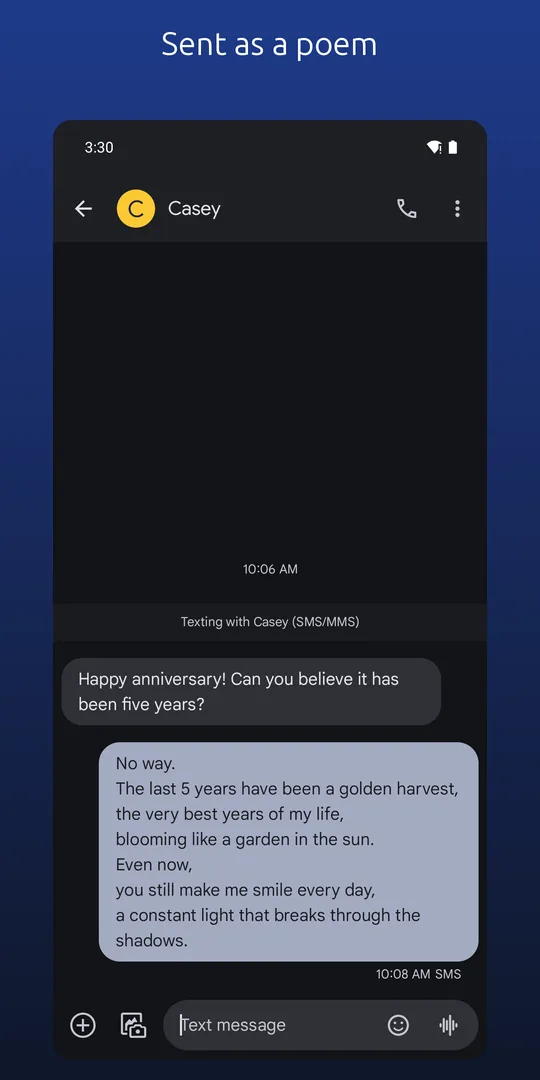
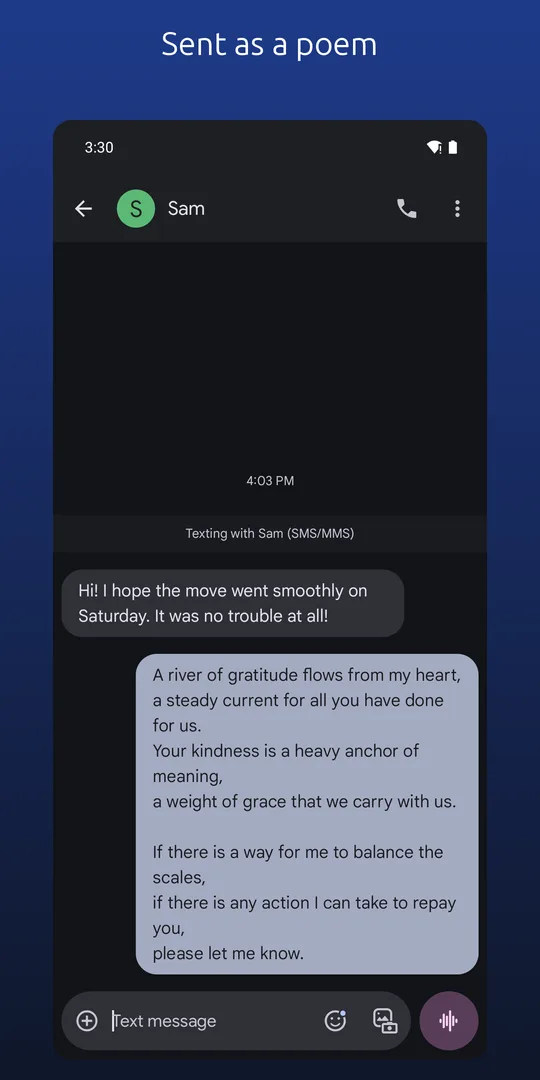
New Poetic screenshots

Changed region(s): [[0.1185, 0.4889, 0.8889, 0.9778], [0.2074, 0.1528, 0.4148, 0.2139], [0.4741, 0.4278, 0.5333, 0.4583]]

diff --git a/index.html b/index.html
@@ -90,8 +90,8 @@ and see the rewrite before it goes in.</p>
   <li><a href="screens/full/03-shakespeare.webp?v=8caebf50"><img src="screens/03-shakespeare.webp?v=f0bc8008" alt="A messy text promising a report, rewritten as Shakespeare" width="540" height="1080" loading="lazy"></a></li>
   <li><a href="screens/full/04-pirate.webp?v=ffc621f4"><img src="screens/04-pirate.webp?v=6dc24448" alt="A messy text about a night out, rewritten as Pirate" width="540" height="1080" loading="lazy"></a></li>
   <li><a href="screens/full/05-piratesent.webp?v=d2ce5eda"><img src="screens/05-piratesent.webp?v=0e372ef0" alt="The pirate rewrite after it was sent" width="540" height="1080" loading="lazy"></a></li>
-  <li><a href="screens/full/06-poetic.webp?v=7e3b7d85"><img src="screens/06-poetic.webp?v=3a676583" alt="A text about five years together, rewritten as a short poem with the same meaning" width="540" height="1080" loading="lazy"></a></li>
-  <li><a href="screens/full/07-poeticsent.webp?v=cea0e9d8"><img src="screens/07-poeticsent.webp?v=00266591" alt="The poem after it was sent" width="540" height="1080" loading="lazy"></a></li>
+  <li><a href="screens/full/06-poetic.webp?v=6d8f3a55"><img src="screens/06-poetic.webp?v=52b0c366" alt="A thank-you text rewritten as a short poem with the same meaning" width="540" height="1080" loading="lazy"></a></li>
+  <li><a href="screens/full/07-poeticsent.webp?v=3cdf4287"><img src="screens/07-poeticsent.webp?v=045a0a62" alt="The poem after it was sent" width="540" height="1080" loading="lazy"></a></li>
   <li><a href="screens/full/08-prolist.webp?v=3ee5c318"><img src="screens/08-prolist.webp?v=82e37718" alt="The pull-down of Pro styles, grouped, with a pinned style marked" width="540" height="1080" loading="lazy"></a></li>
   <li><a href="screens/full/09-choices.webp?v=7e176a75"><img src="screens/09-choices.webp?v=c24684f8" alt="Changing the style in the Reword panel: free styles, pinned Pro styles and the pull-down" width="540" height="1080" loading="lazy"></a></li>
   <li><a href="screens/full/10-lpbefore.webp?v=0f1928ce"><img src="screens/10-lpbefore.webp?v=6d1de5db" alt="Tapping the Reword button on a messy text about bringing home dinner" width="540" height="1080" loading="lazy"></a></li>
